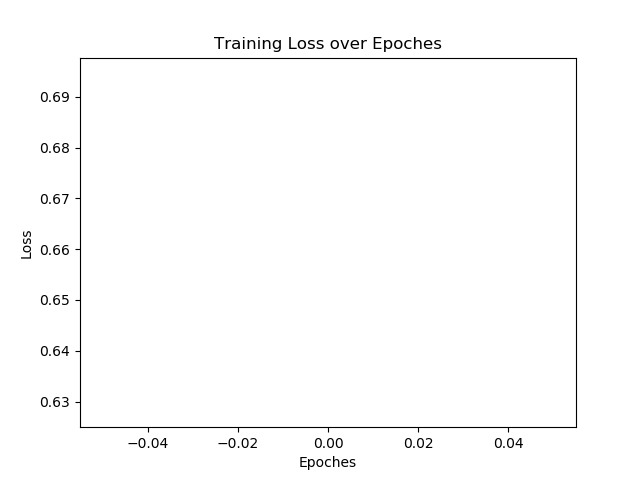
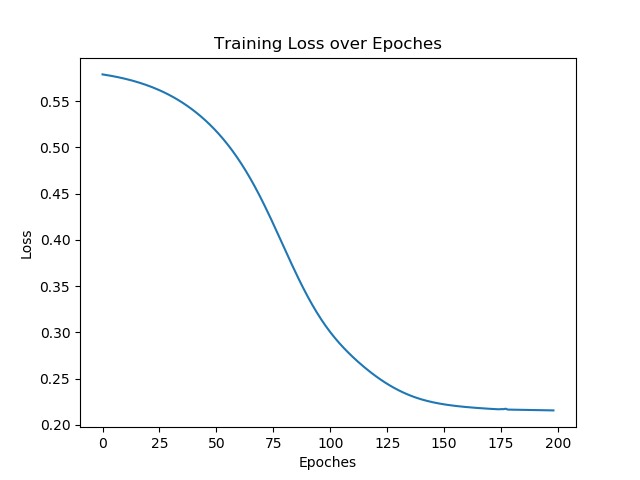
generating plots using script instead of ipynb

diff --git a/qcnns_for_phase_recog/qcnn_classify_phases.py b/qcnns_for_phase_recog/qcnn_classify_phases.py
@@ -49,9 +49,9 @@ def plot_heat_map(pred_mat, fname_save, title="2-D Heat Map", save_path="./resul
 
 
 def main():
-    num_qubits = 8
-    training_fname = "./data/dataset_n=8_train.txt"
-    test_fname = "./data/dataset_n=8_test.txt"
+    num_qubits = 9
+    training_fname = "./data/dataset_n=9_train.txt"
+    test_fname = "./data/dataset_n=9_test.txt"
 
     h1h2_train, train_data = read_eigenvectors(training_fname)
     h1h2_test, test_data = read_eigenvectors(test_fname)
@@ -74,8 +74,8 @@ def main():
     ## def structure:
     my_qcnn.add_layer(my_qcnn.Layers["legacy_conv4_layer"], kwargs={"label": "C4_1"})
     my_qcnn.add_layer(my_qcnn.Layers["legacy_conv_layer"], kwargs={"label": "C2"})
-    my_qcnn.add_layer(my_qcnn.Layers["legacy_conv_layer"], kwargs={"label": "C3", "start_index": 1})
-    my_qcnn.add_layer(my_qcnn.Layers["legacy_conv_layer"], kwargs={"label": "C4", "start_index": 2})
+    # my_qcnn.add_layer(my_qcnn.Layers["legacy_conv_layer"], kwargs={"label": "C3", "start_index": 1})
+    # my_qcnn.add_layer(my_qcnn.Layers["legacy_conv_layer"], kwargs={"label": "C4", "start_index": 2})
     my_qcnn.add_layer(my_qcnn.Layers["legacy_pool_layer"], kwargs={"label": "P1",
                                                                    "update_active_qubits": {"group_len": 3,
                                                                                             "target": 1}})
@@ -92,7 +92,7 @@ def main():
     loss_lst = []  # initialize
     iteration_num = 1
 
-    while (abs(successive_loss) > 1e-5) and (iteration_num < 2):
+    while (abs(successive_loss) > 1e-5) and (iteration_num < 200):
         pred = my_qcnn.forward(train_data, my_qcnn.params.copy())
         loss = my_qcnn.mse_loss(pred, labels)
 

diff --git a/qml_src/qml/layers.py b/qml_src/qml/layers.py
@@ -85,12 +85,12 @@ def legacy_conv4_layer_func(circ, params, active_qubits, barrier=True, kwargs={}
         q_index_2 = active_qubits[index + 2]
         q_index_3 = active_qubits[index + 3]
 
-        circ.unitary(u_conv, [q_index_1, q_index_2], label=label)
-        circ.unitary(u_conv, [q_index_1, q_index_3], label=label)
-        circ.unitary(u_conv, [q_index,   q_index_2], label=label)
-        circ.unitary(u_conv, [q_index,   q_index_3], label=label)
-        circ.unitary(u_conv, [q_index,   q_index_1], label=label)
         circ.unitary(u_conv, [q_index_2, q_index_3], label=label)
+        circ.unitary(u_conv, [q_index,   q_index_1], label=label)
+        circ.unitary(u_conv, [q_index,   q_index_3], label=label)
+        circ.unitary(u_conv, [q_index,   q_index_2], label=label)
+        circ.unitary(u_conv, [q_index_1, q_index_3], label=label)
+        circ.unitary(u_conv, [q_index_1, q_index_2], label=label)
         circ.barrier()
 
         if index == 0:
